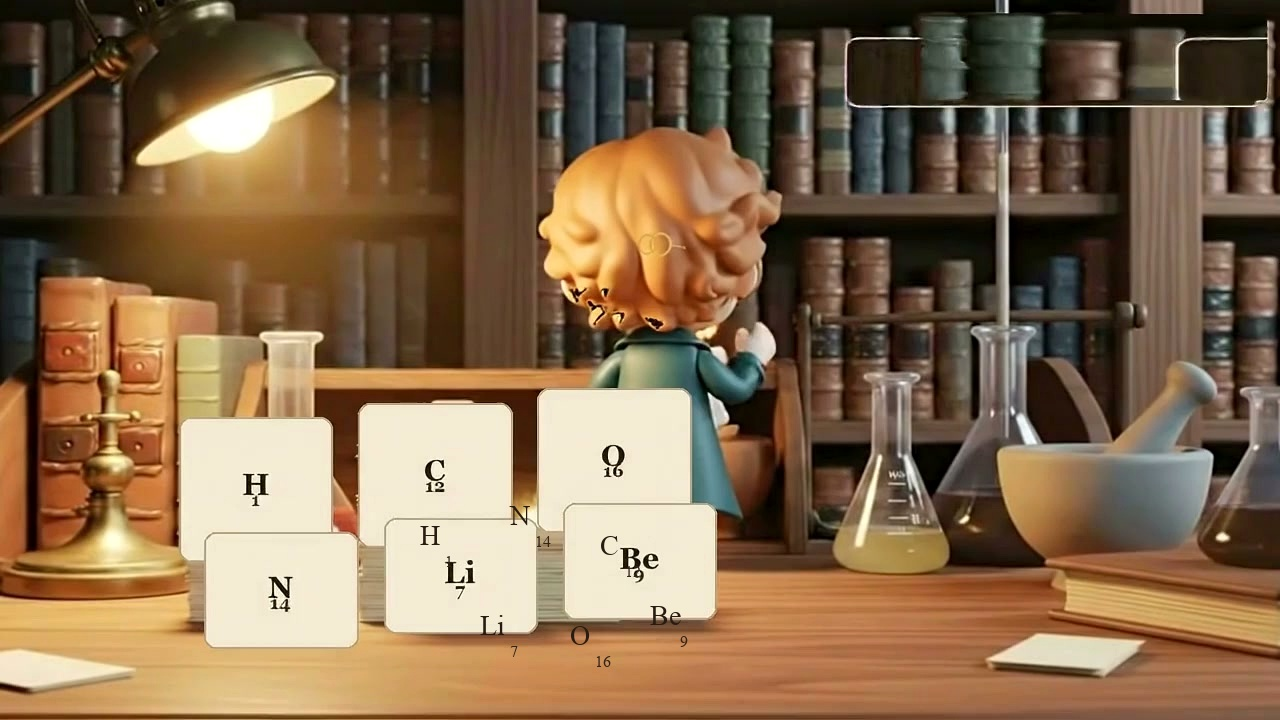
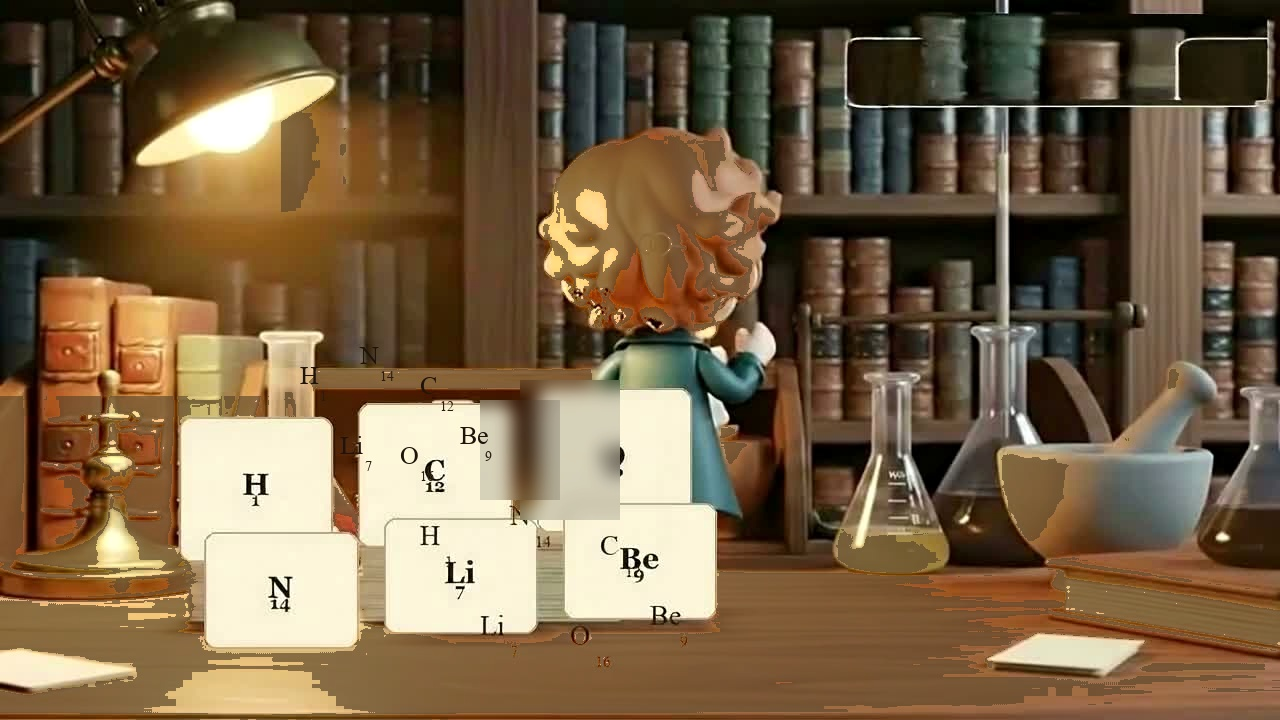
HOS 002 Part 04 v11: reject candle fire on 06; scrub start; candle gate.
Try4 land rejected (desk candle + face-on tail ~6s). Rebuild 06 start without
candle hotspot; add still candle_fire auto-reject; strengthen LAMP_CLEAN lock.

diff --git a/02_Video-Projects/002_How-Did-We-Discover-The-Periodic-Table/07_Edit-Project/_mint_part04_flow_v11.py b/02_Video-Projects/002_How-Did-We-Discover-The-Periodic-Table/07_Edit-Project/_mint_part04_flow_v11.py
@@ -100,8 +100,9 @@ GLASSES_LOCK = (
 
 LAMP_CLEAN_LOCK = (
     "LAMP CLEAN LOCK: soft warm desk-lamp glow ONLY. HARD REJECT: lamp spitting fire, "
-    "sparks dripping under the bulb, candle flames on the desk, fire particles, "
-    "ember trails, flaming props. The bulb is a calm warm glow — never fire."
+    "sparks dripping under the bulb, candle flames on the desk, any lit candle, "
+    "taper candle, wax candle, fire particles, ember trails, flaming props. "
+    "ZERO candles anywhere in the scene. The bulb is a calm warm glow — never fire."
 )
 
 WRITTEN_CARDS_LOCK = (
